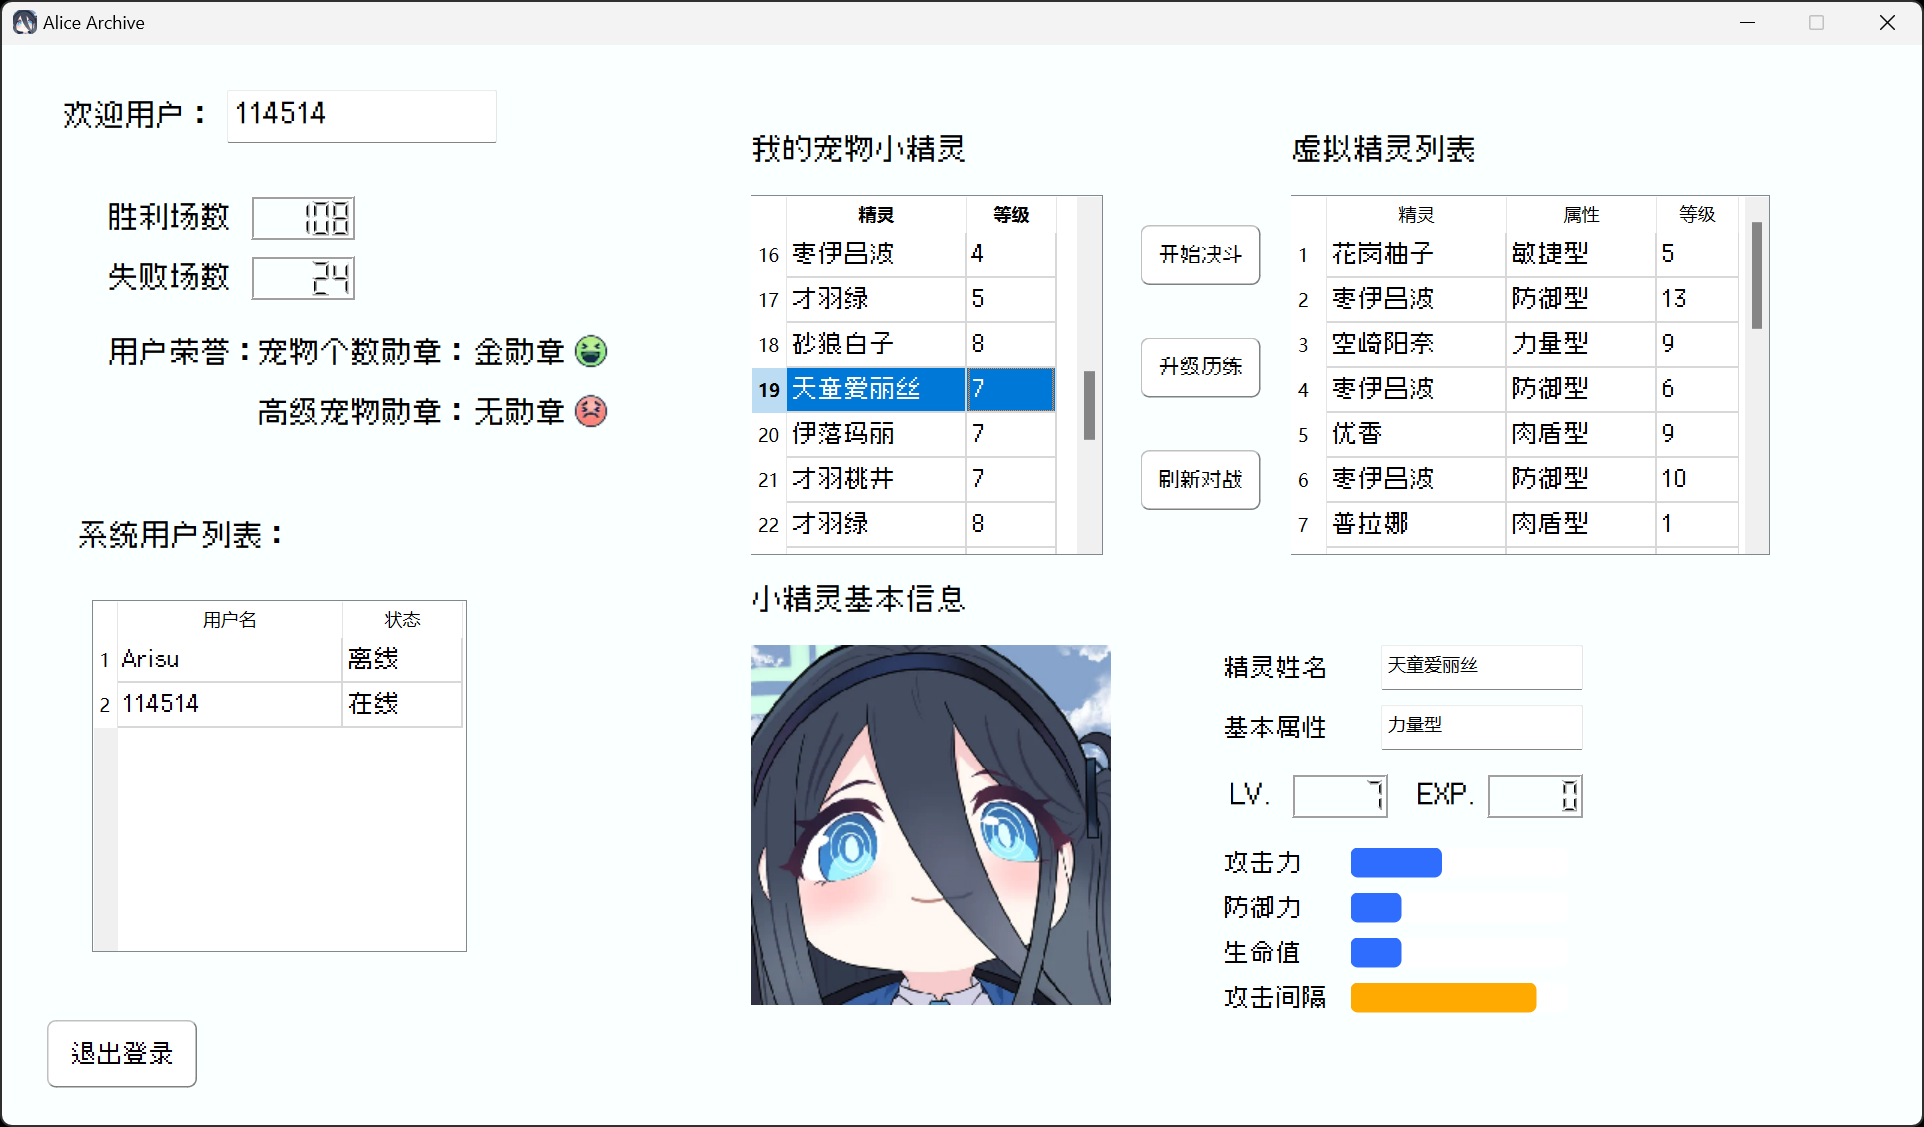
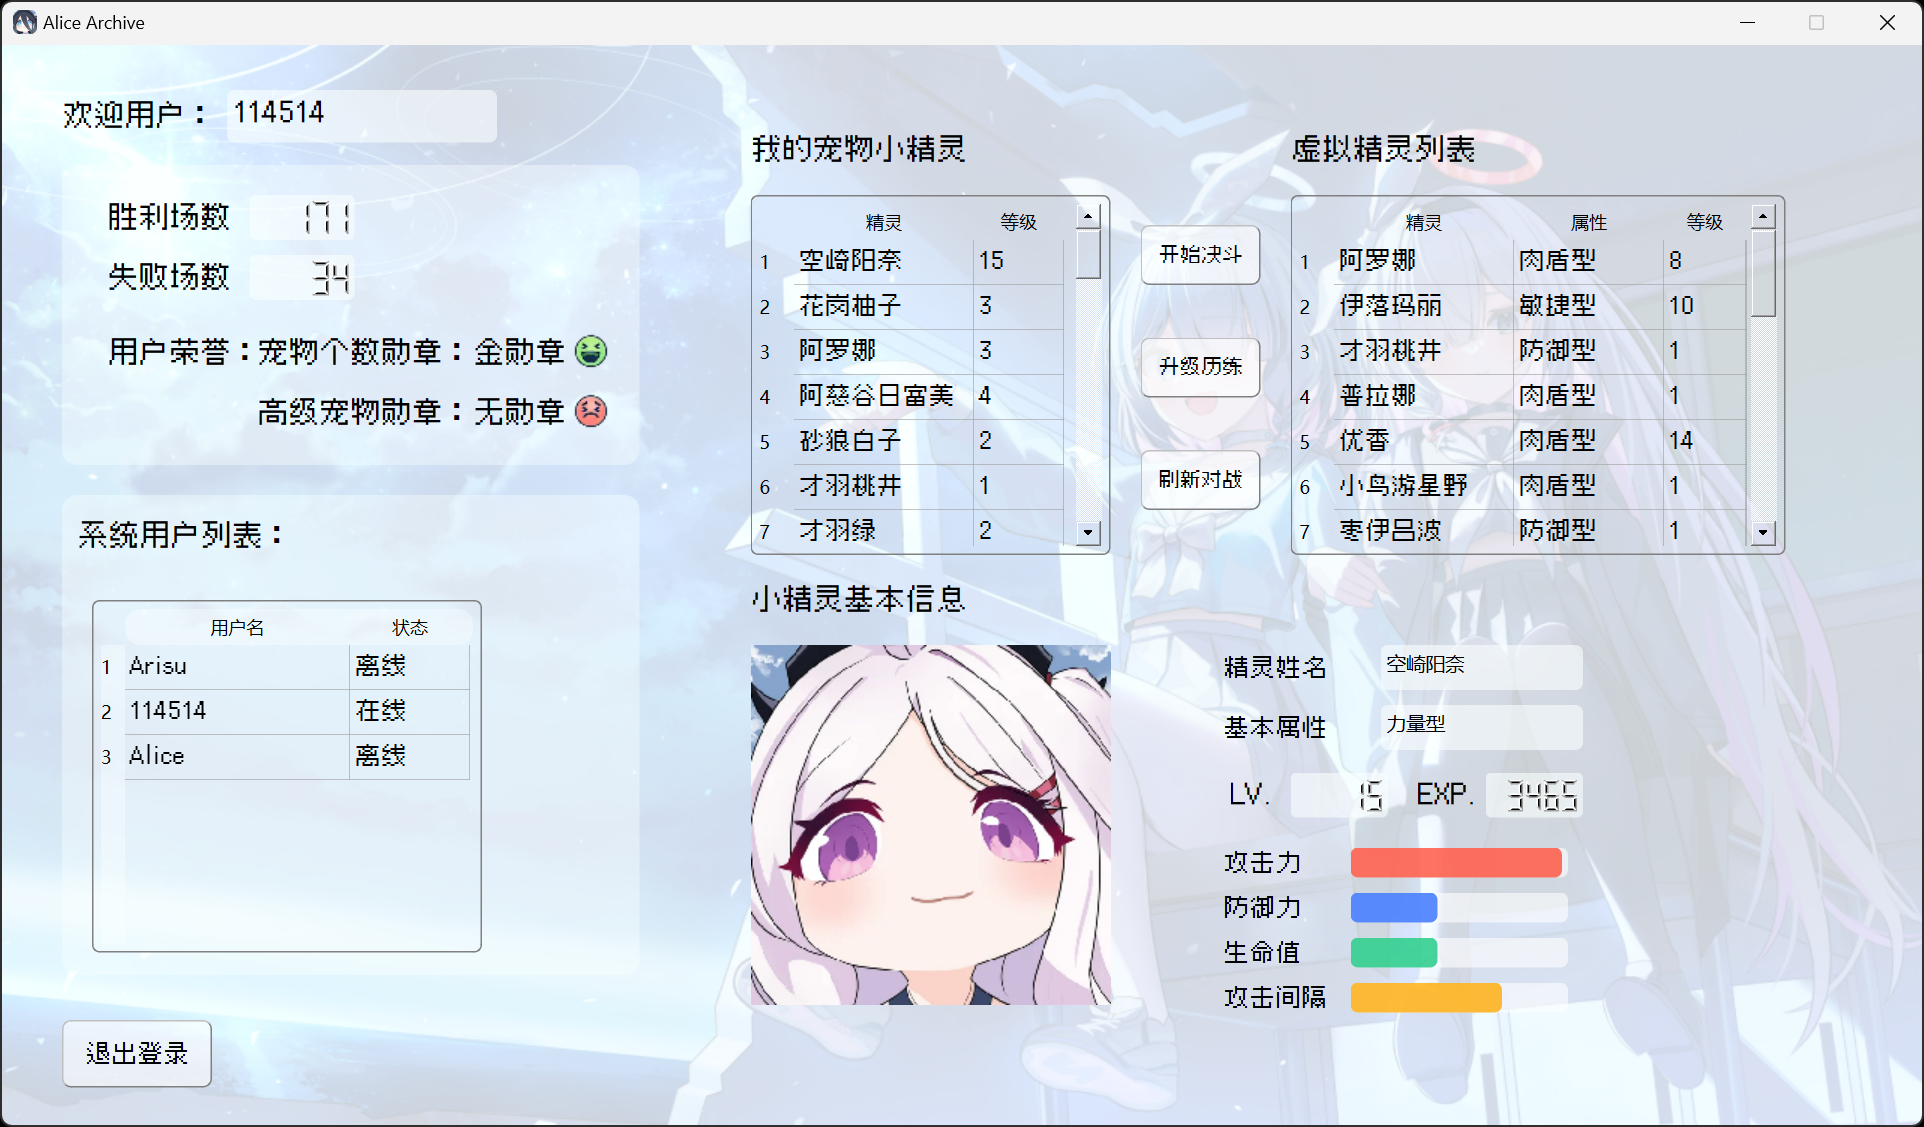
更新了UI：背景图

diff --git a/mainwindow.cpp b/mainwindow.cpp
@@ -8,9 +8,19 @@
 #include<thread>
 #include<chrono>
 #include<QLayout>
-
+#include<QPainter>
 #include<map>
 extern std::map<QString, QString> ToPinyin;
+
+QPixmap MainWindow::setPixmapOpacity(const QPixmap &src, qreal opacity) {
+    QPixmap dest(src.size());
+    dest.fill(Qt::transparent);
+    QPainter painter(&dest);
+    painter.setOpacity(opacity);
+    painter.drawPixmap(0, 0, src);
+    painter.end();
+    return dest;
+}
 
 MainWindow::MainWindow(QWidget *parent)
     : QMainWindow(parent)
@@ -79,6 +89,12 @@ MainWindow::MainWindow(QWidget *parent)
     Click_Lable * click_pixmap_show_power_desc = new Click_Lable(page);
     click_pixmap_show_power_desc->setGeometry(60 + 439, 370 + 30, 240, 240);
     connect(click_pixmap_show_power_desc, &Click_Lable::doubleClicked, this, &MainWindow::onLabelDoubleClicked);
+
+    //背景图片：透明度
+    QPixmap pixmap(":/new/prefix1/Resource/personal_background.png");
+    qreal opacity = 0.2;
+    QPixmap transparentPixmap = setPixmapOpacity(pixmap, opacity);
+    ui->person_background->setPixmap(transparentPixmap);
 }
 
 MainWindow::~MainWindow(){

diff --git a/mainwindow.h b/mainwindow.h
@@ -61,7 +61,7 @@ private slots:
 
 private:
     Ui::MainWindow *ui;
-
+    QPixmap setPixmapOpacity(const QPixmap &src, qreal opacity);
     QTcpSocket *socket;
     QString IP;
     int port;
